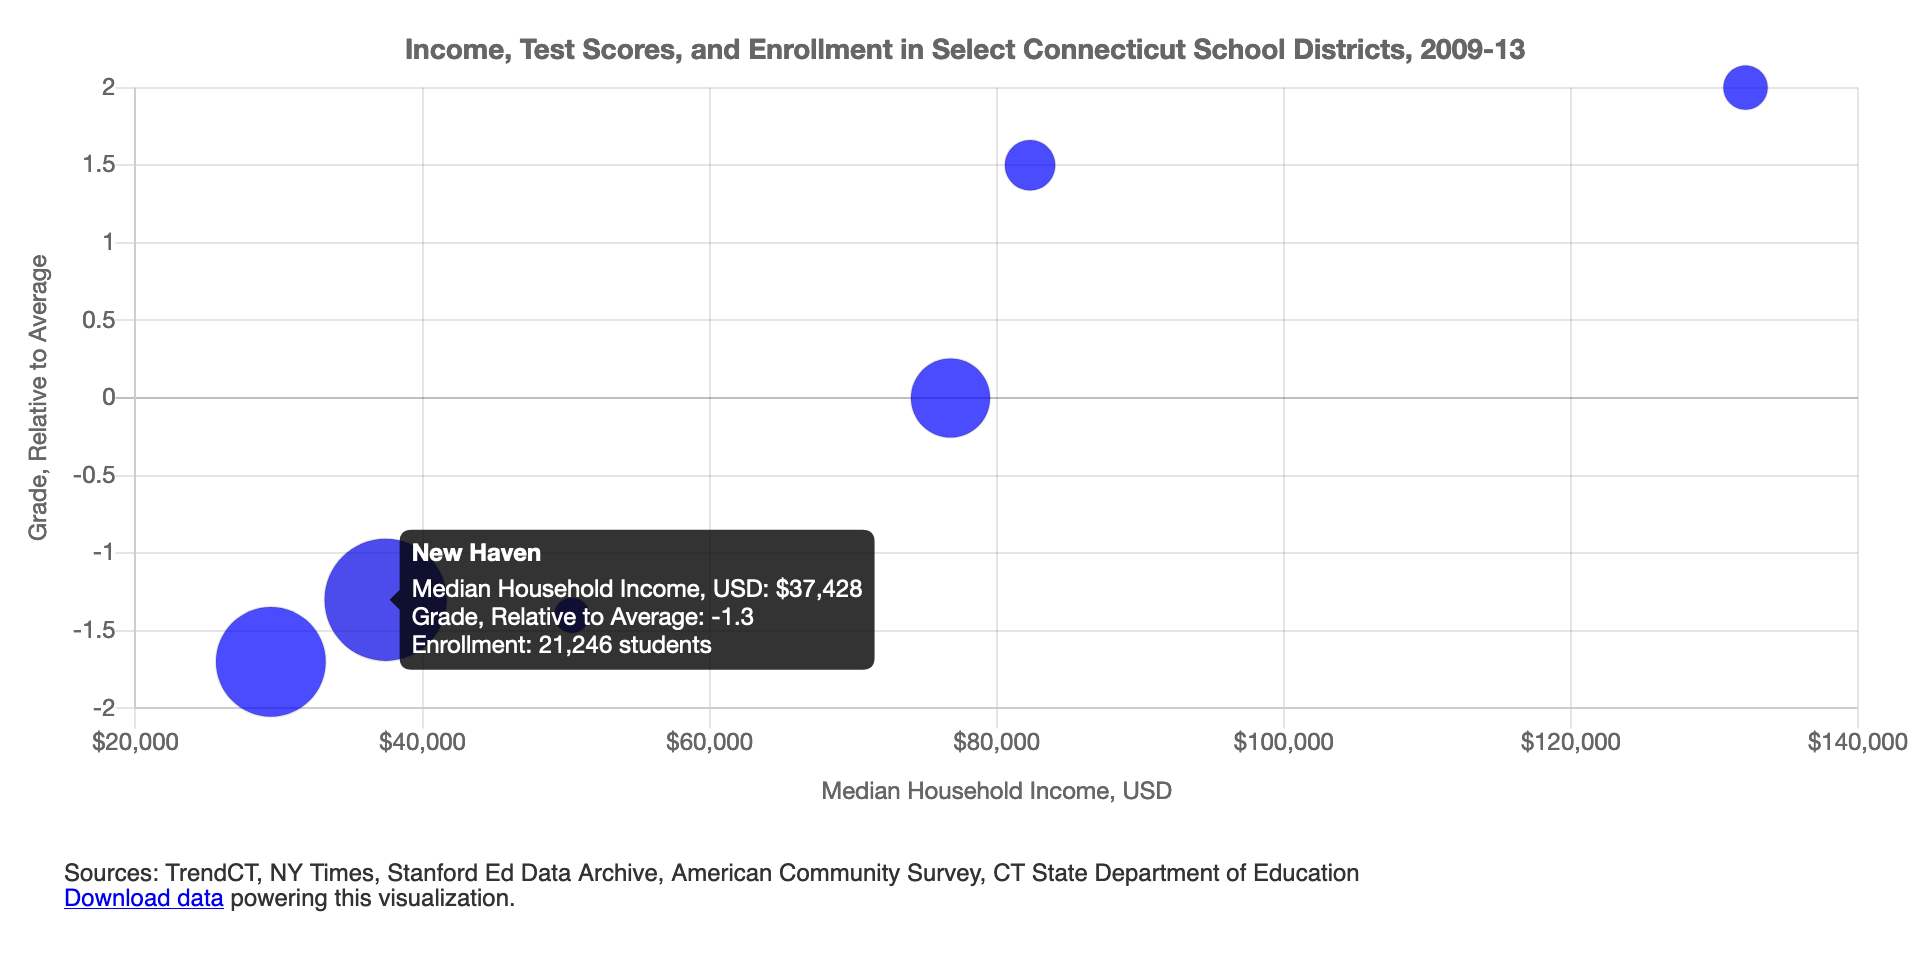
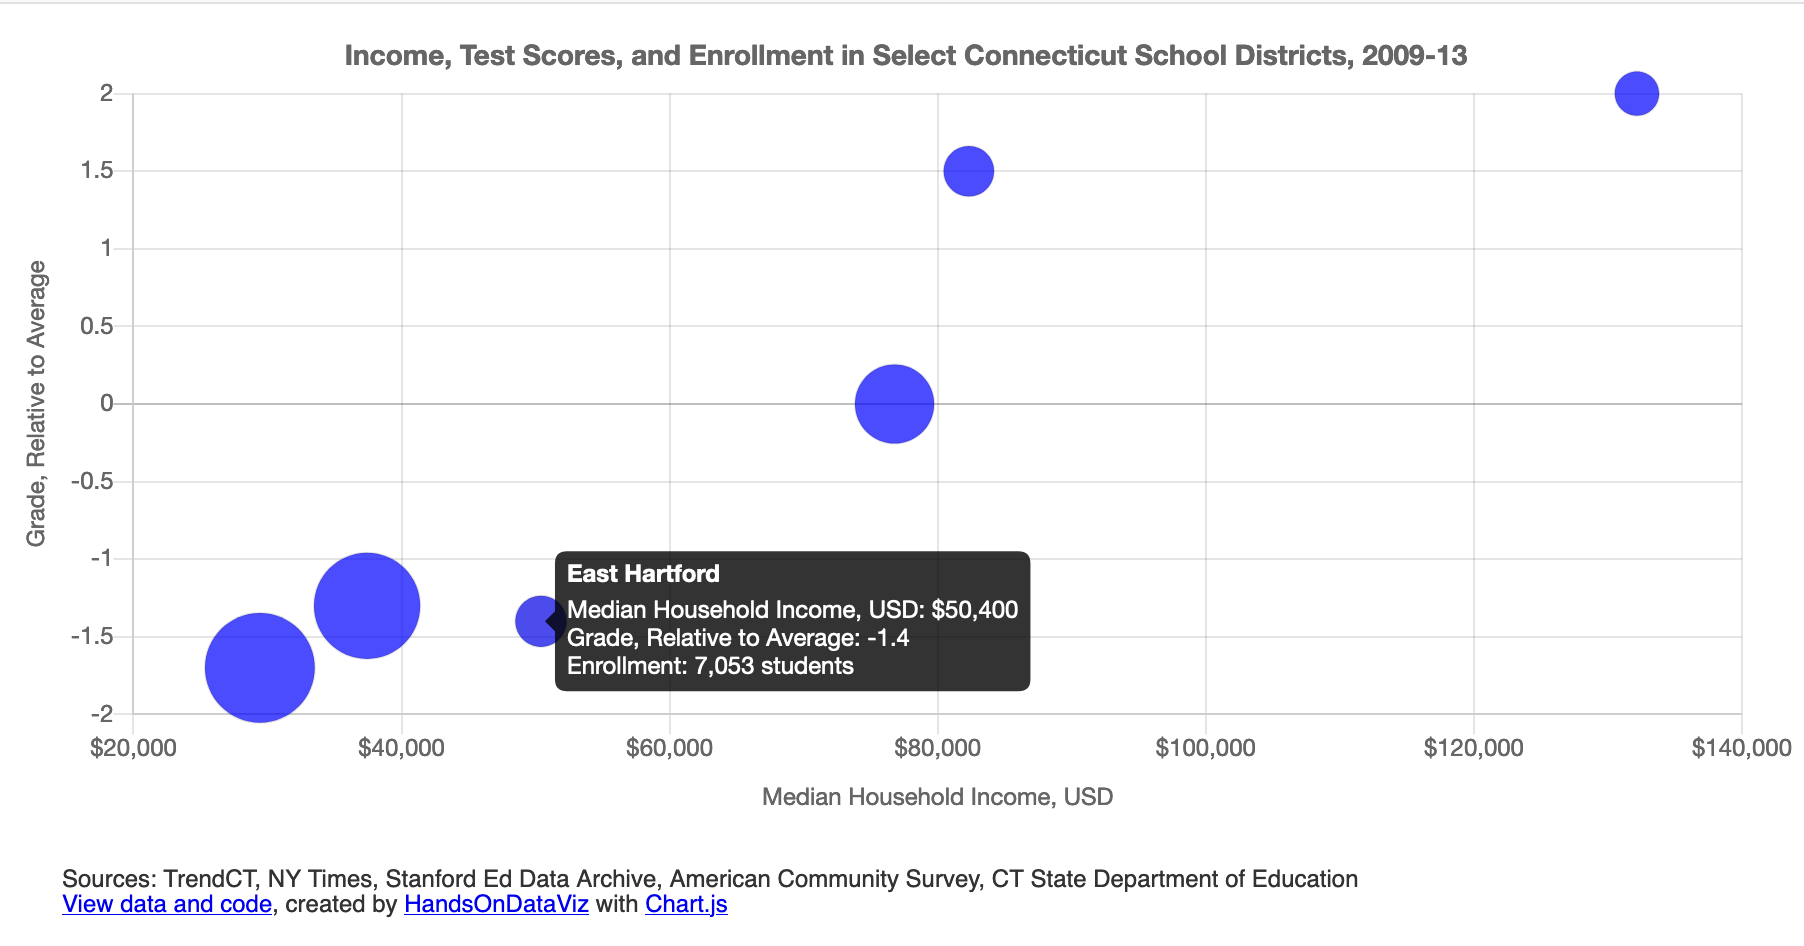
Modify credit line, update screenshot

diff --git a/index.html b/index.html
@@ -25,7 +25,9 @@
       Sources: TrendCT, NY Times, Stanford Ed Data Archive, American Community Survey,
       CT State Department of Education
       <br>
-      <a href="./data.csv">Download data</a> powering this visualization.
+      <a href="https://github.com/HandsOnDataViz/chartjs-bubble">View data and code</a>,
+      created by <a href="https://handsondataviz.org/">HandsOnDataViz</a>
+      with <a href="https://www.chartjs.org/">Chart.js</a>
     </p>
 
     <script src="script.js"></script>
